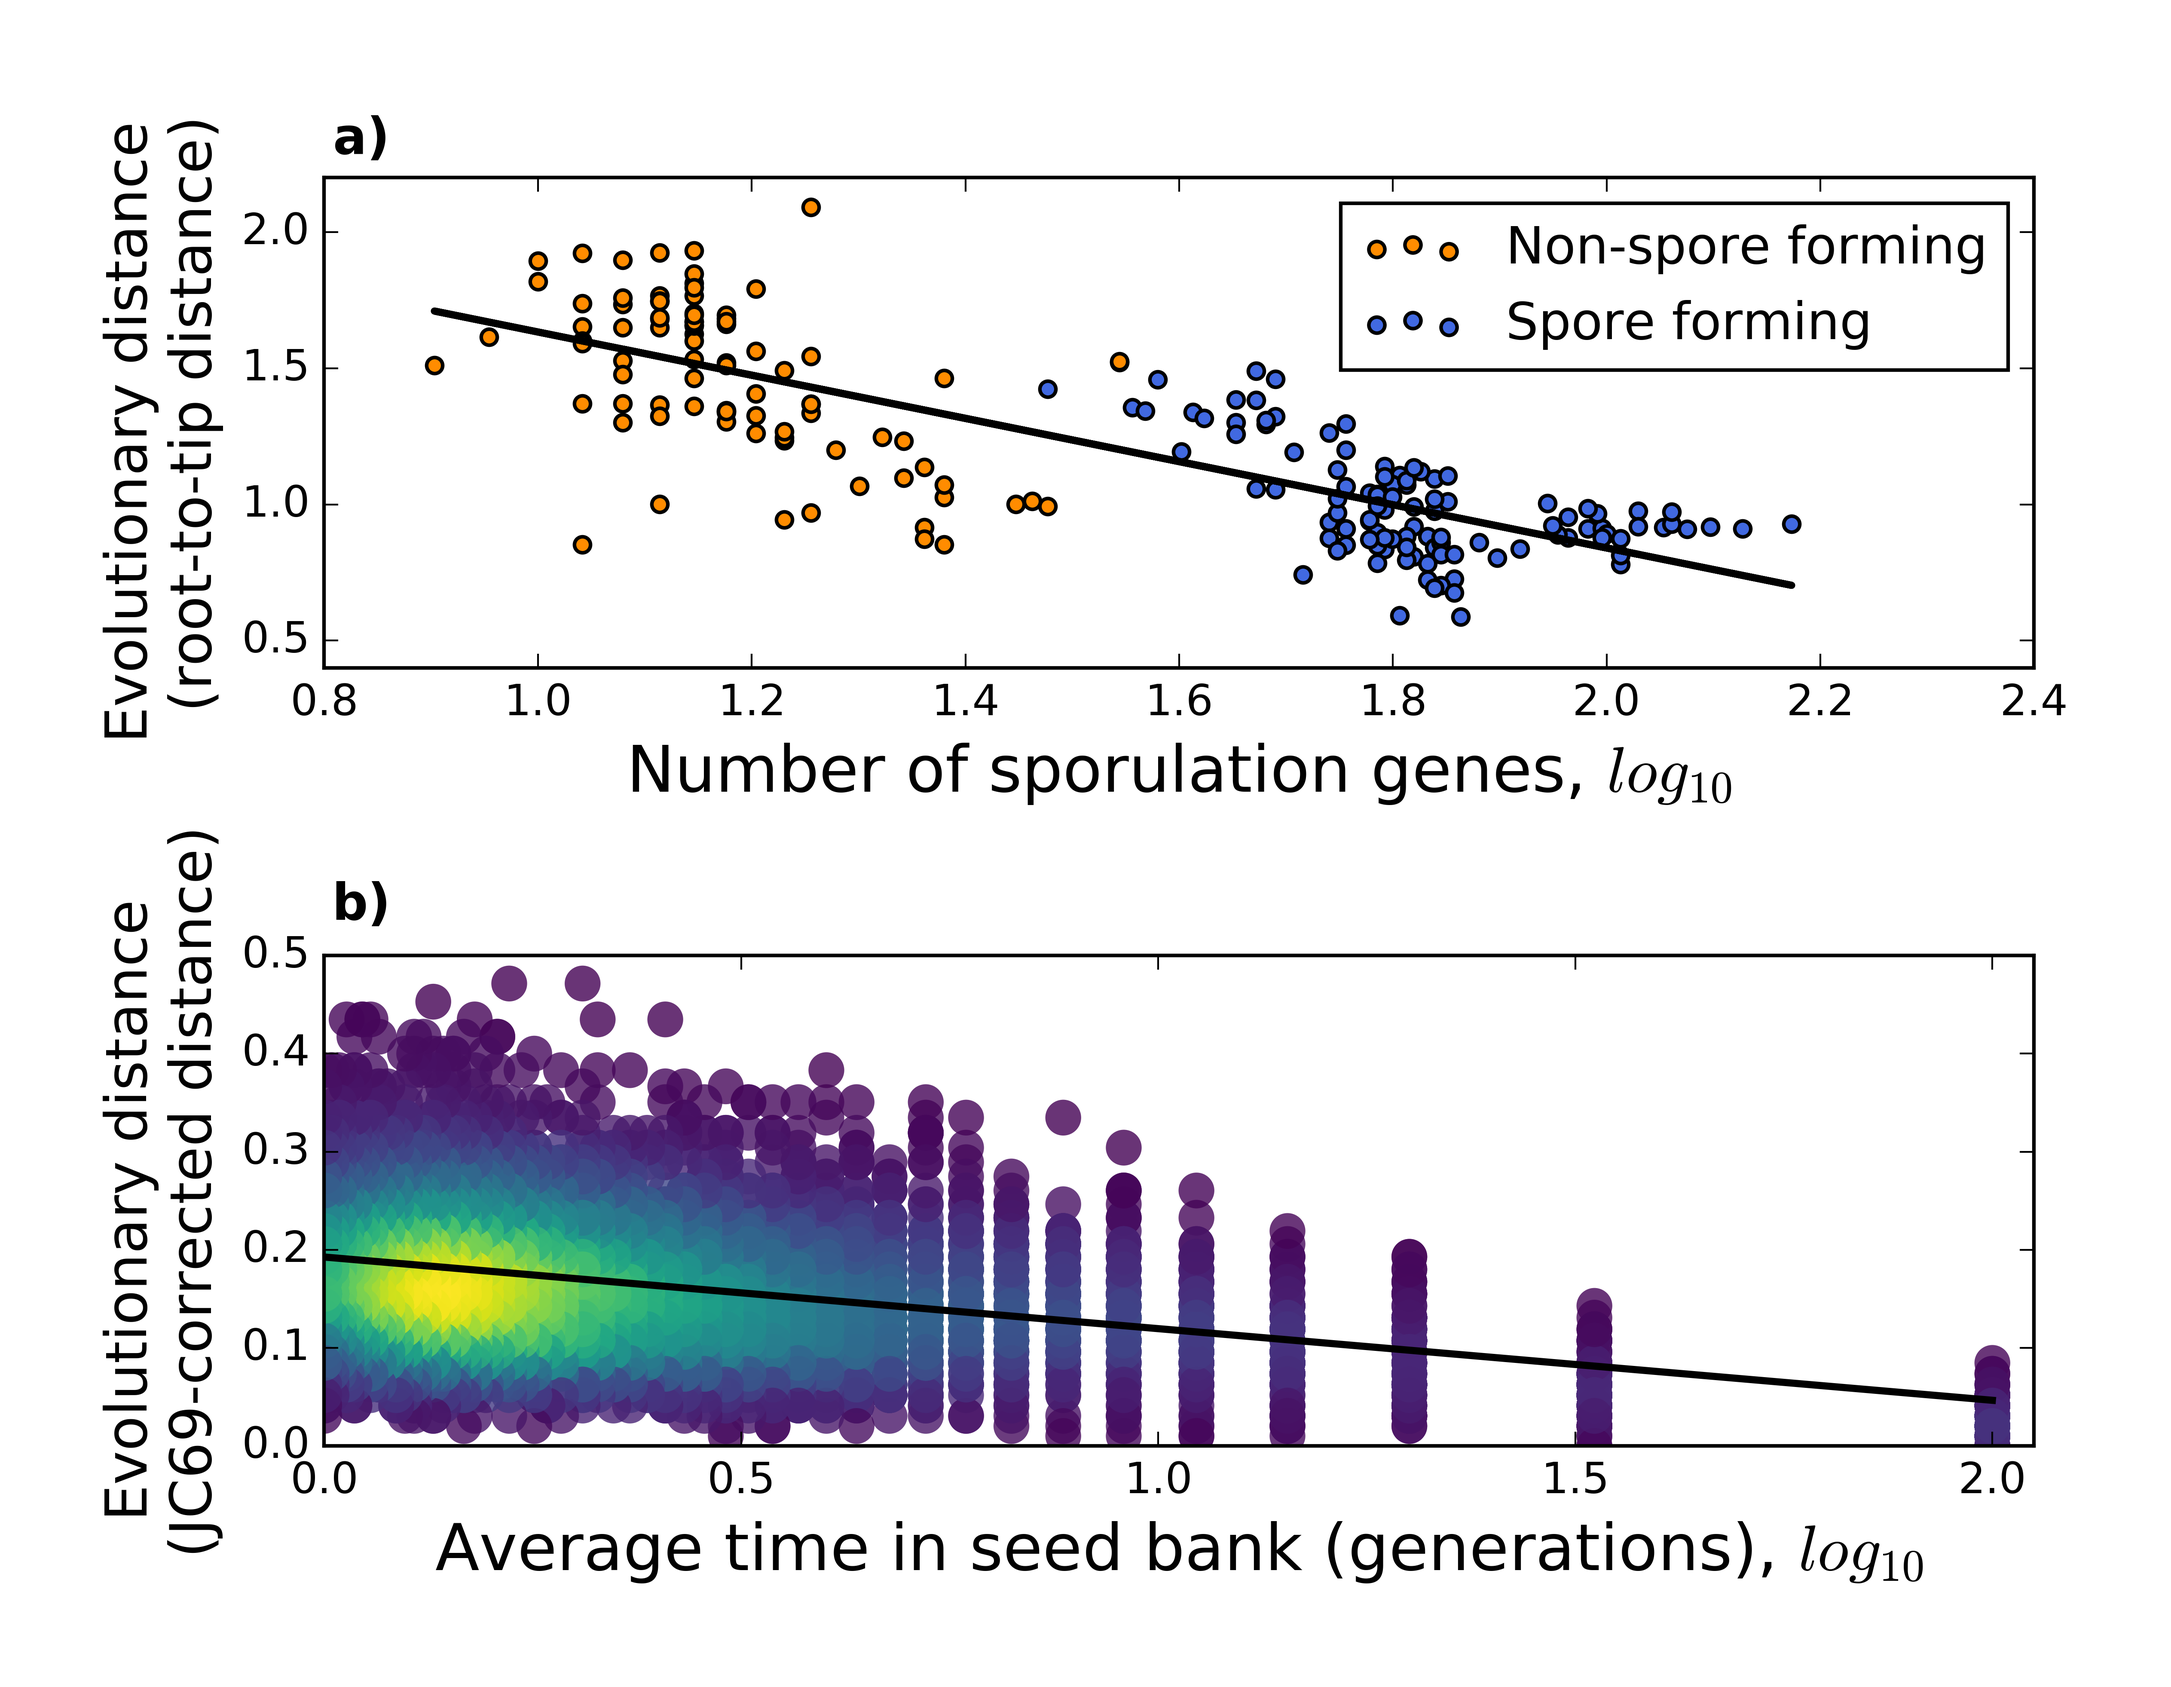
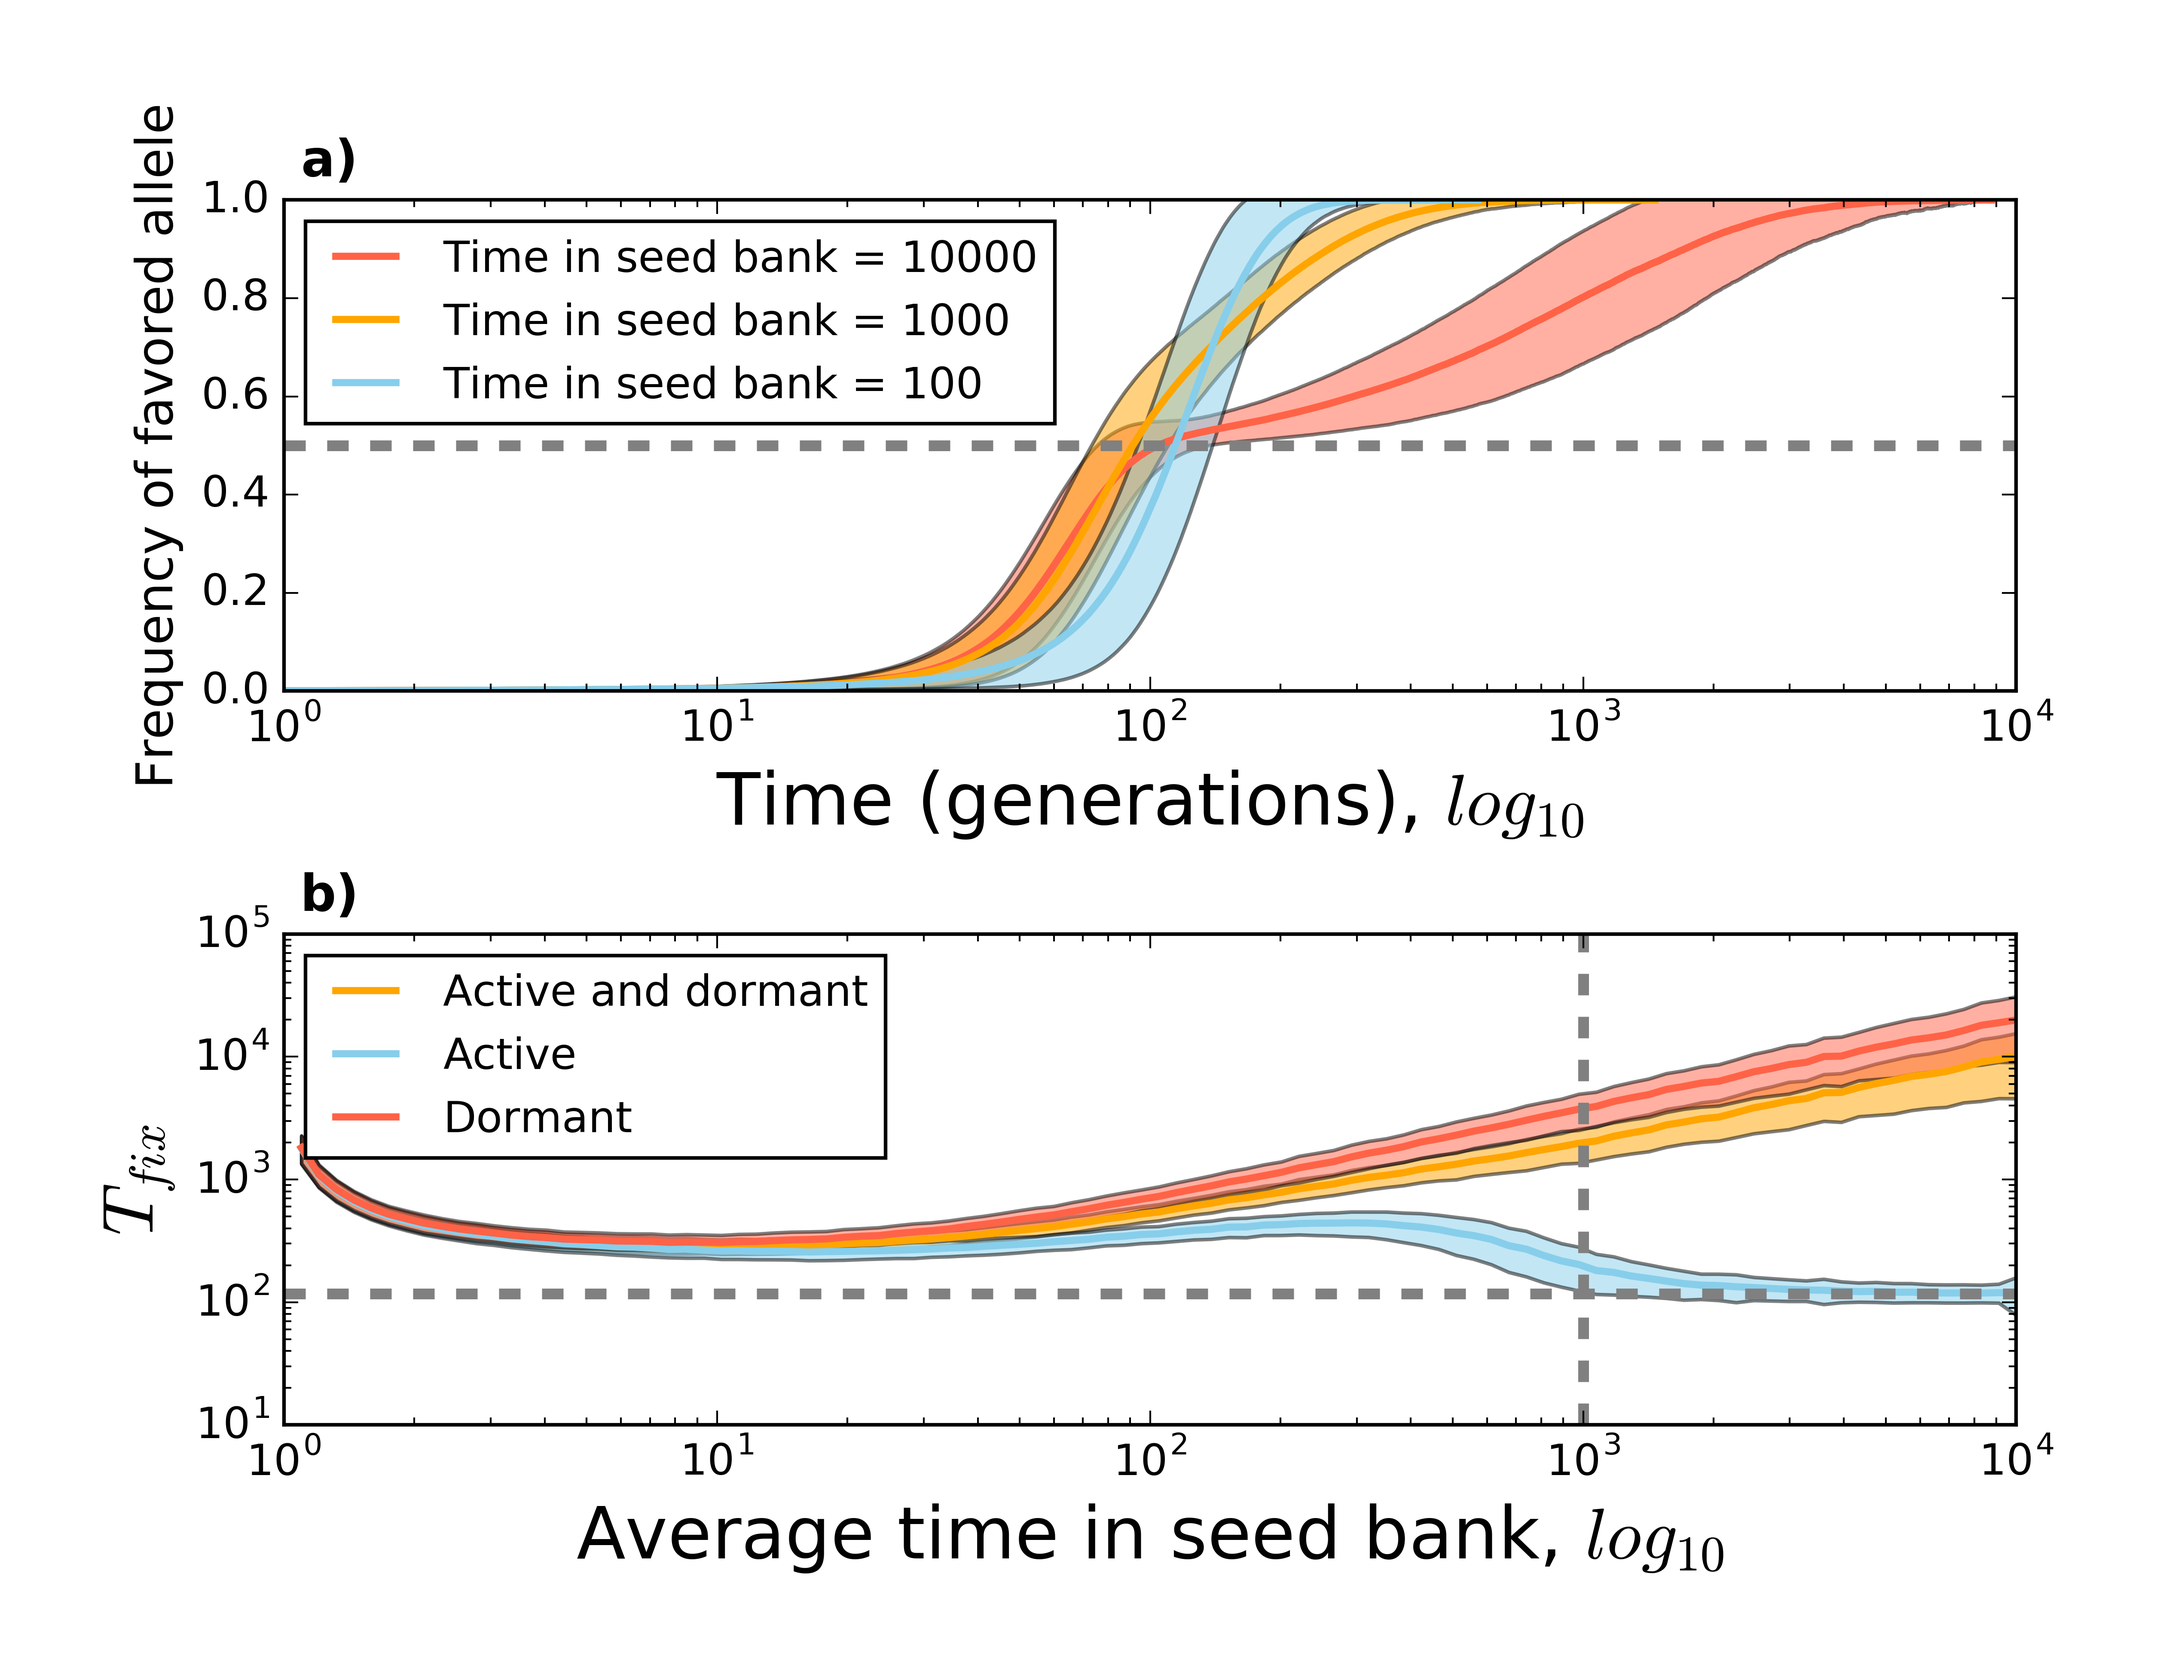
fixed fig 2

diff --git a/Python/makeFigs.py b/Python/makeFigs.py
@@ -31,7 +31,7 @@ def sci_notation(num, decimal_digits=1, precision=None, exponent=None):
     return r"{0:.{2}f}\cdot10^{{{1:d}}}".format(coeff, exponent, precision)
 
 
-def Fig2(theta2 = 0, seq_length = 100):
+def Fig3(theta2 = 0, seq_length = 100):
     fig = plt.figure()
     for i in range(2):
         ax = fig.add_subplot(2, 1, i+1)
@@ -89,11 +89,11 @@ def Fig2(theta2 = 0, seq_length = 100):
         horizontalalignment='center',
         verticalalignment='center', fontweight='bold')
     fig.tight_layout()
-    fig.savefig(mydir + '/figures/Fig2.png', \
+    fig.savefig(mydir + '/figures/Fig3.png', \
             bbox_inches = "tight", pad_inches = 0.4, dpi = 600)
     plt.close()
 
-def Fig3(N = 1000, M = 10000, s = 0.1):
+def Fig4(N = 1000, M = 10000, s = 0.1):
     fig = plt.figure()
     for i in range(2):
         if i == 0:
@@ -130,7 +130,7 @@ def Fig3(N = 1000, M = 10000, s = 0.1):
             ax.set_ylim([0, 1])
             ax.legend(loc='upper left', fontsize = 12)
             ax.set_xscale('log', basex=10)
-            plt.axhline(y = 0.5, c = 'grey', linestyle = '--', lw = 3)
+            #plt.axhline(y = 0.5, c = 'grey', linestyle = '--', lw = 3)
             ax.set_xlabel('Time (generations), ' + r'$log_{10}$', fontsize=20)
             ax.set_ylabel('Frequency of favored allele', fontsize=14)
 
@@ -201,12 +201,12 @@ def Fig3(N = 1000, M = 10000, s = 0.1):
         horizontalalignment='center',
         verticalalignment='center', fontweight='bold')
     fig.tight_layout()
-    fig.savefig(mydir + '/figures/Fig3.png', \
+    fig.savefig(mydir + '/figures/Fig4.png', \
         bbox_inches = "tight", pad_inches = 0.4, dpi = 600)
     plt.close()
 
 
-def Fig4(subpop = 'all'):
+def Fig5(subpop = 'all'):
     fig = plt.figure()
     for i in range(2):
         if i == 0:
@@ -284,11 +284,11 @@ def Fig4(subpop = 'all'):
             ax.set_ylabel('Evolutionary distance \n (JC69-corrected distance)', fontsize=16)
 
     if subpop == 'all':
-        fig_name = mydir + '/figures/Fig4.png'
+        fig_name = mydir + '/figures/Fig5.png'
     elif subpop == 'N':
-        fig_name = mydir + '/figures/Fig4_N.png'
+        fig_name = mydir + '/figures/Fig5_N.png'
     elif subpop == 'M':
-        fig_name = mydir + '/figures/Fig4_M.png'
+        fig_name = mydir + '/figures/Fig5_M.png'
     fig.text(0.15, 0.97 , 'a)',  fontsize=14,
         horizontalalignment='center',
         verticalalignment='center', fontweight='bold')
@@ -301,7 +301,10 @@ def Fig4(subpop = 'all'):
 
 
 
+
+
 def getDAPIgate(plate):
+
     As = ['A3', 'A4']
     cutoffs = []
     for A in As:
@@ -311,7 +314,7 @@ def getDAPIgate(plate):
     cutoff = np.mean(cutoffs)
     return cutoff
 
-def Box1Fig():
+def Fig2():
     fig = plt.figure()
 
     path_006 = mydir + '/data/Box1Fig/Sample_006/'
@@ -341,8 +344,6 @@ def Box1Fig():
     RSG_006 = gated_sample_006.data[['FITC-A']].values
     RSG_012 = gated_sample_012.data[['FITC-A']].values
     RSG_264 = gated_sample_264.data[['FITC-A']].values
-
-
     #colors = ['#FF6347', '#FFA500', '#87CEEB']
 
     plt.hist(RSG_006, 40, fc='#87CEEB', histtype='bar', alpha=0.5, normed=True)
@@ -350,10 +351,10 @@ def Box1Fig():
     plt.hist(RSG_264, 40, fc='#FF6347', histtype='bar', alpha=0.5, normed=True)
 
     plt.ticklabel_format(style='sci', axis='y', scilimits=(0,0))
-    plt.title('The distribution of reductase \n acivity in a microbial population', \
-        fontsize = 20, weight = 'heavy')
-    plt.xlabel('Reductase-associated fluorescence', fontsize = 18)
-    plt.ylabel('Probability', fontsize = 18)
+    #plt.title('The distribution of reductase \n acivity in a microbial population', \
+    #    fontsize = 20, weight = 'heavy')
+    plt.xlabel('Metabolic activity', fontsize = 18)
+    plt.ylabel('Frequency', fontsize = 18)
     plt.arrow(2500, 0.00075, 3400, 0, width=0.00004, \
         head_width=0.00012, head_length=450,  length_includes_head=True, \
         shape='full', color = '#87CEEB')
@@ -365,11 +366,8 @@ def Box1Fig():
     plt.ylim(0, 0.001)
     fig.tight_layout()
     plt.gca().invert_xaxis()
-    plt.text(4800, 0.00055 , 'Dormancy', color = '#FF6347', fontsize = 18, weight = 'heavy')
+    plt.text(4800, 0.00055 , 'Initiation', color = '#FF6347', fontsize = 18, weight = 'heavy')
     plt.text(5050, 0.0008, 'Resucitation', color = '#87CEEB', fontsize = 18, weight = 'heavy')
-    fig_name = mydir + '/figures/Box1Fig.png'
+    fig_name = mydir + '/figures/Fig2.png'
     fig.savefig(fig_name, bbox_inches = "tight", pad_inches = 0.4, dpi = 600)
     plt.close()
-
-
-Fig3()
